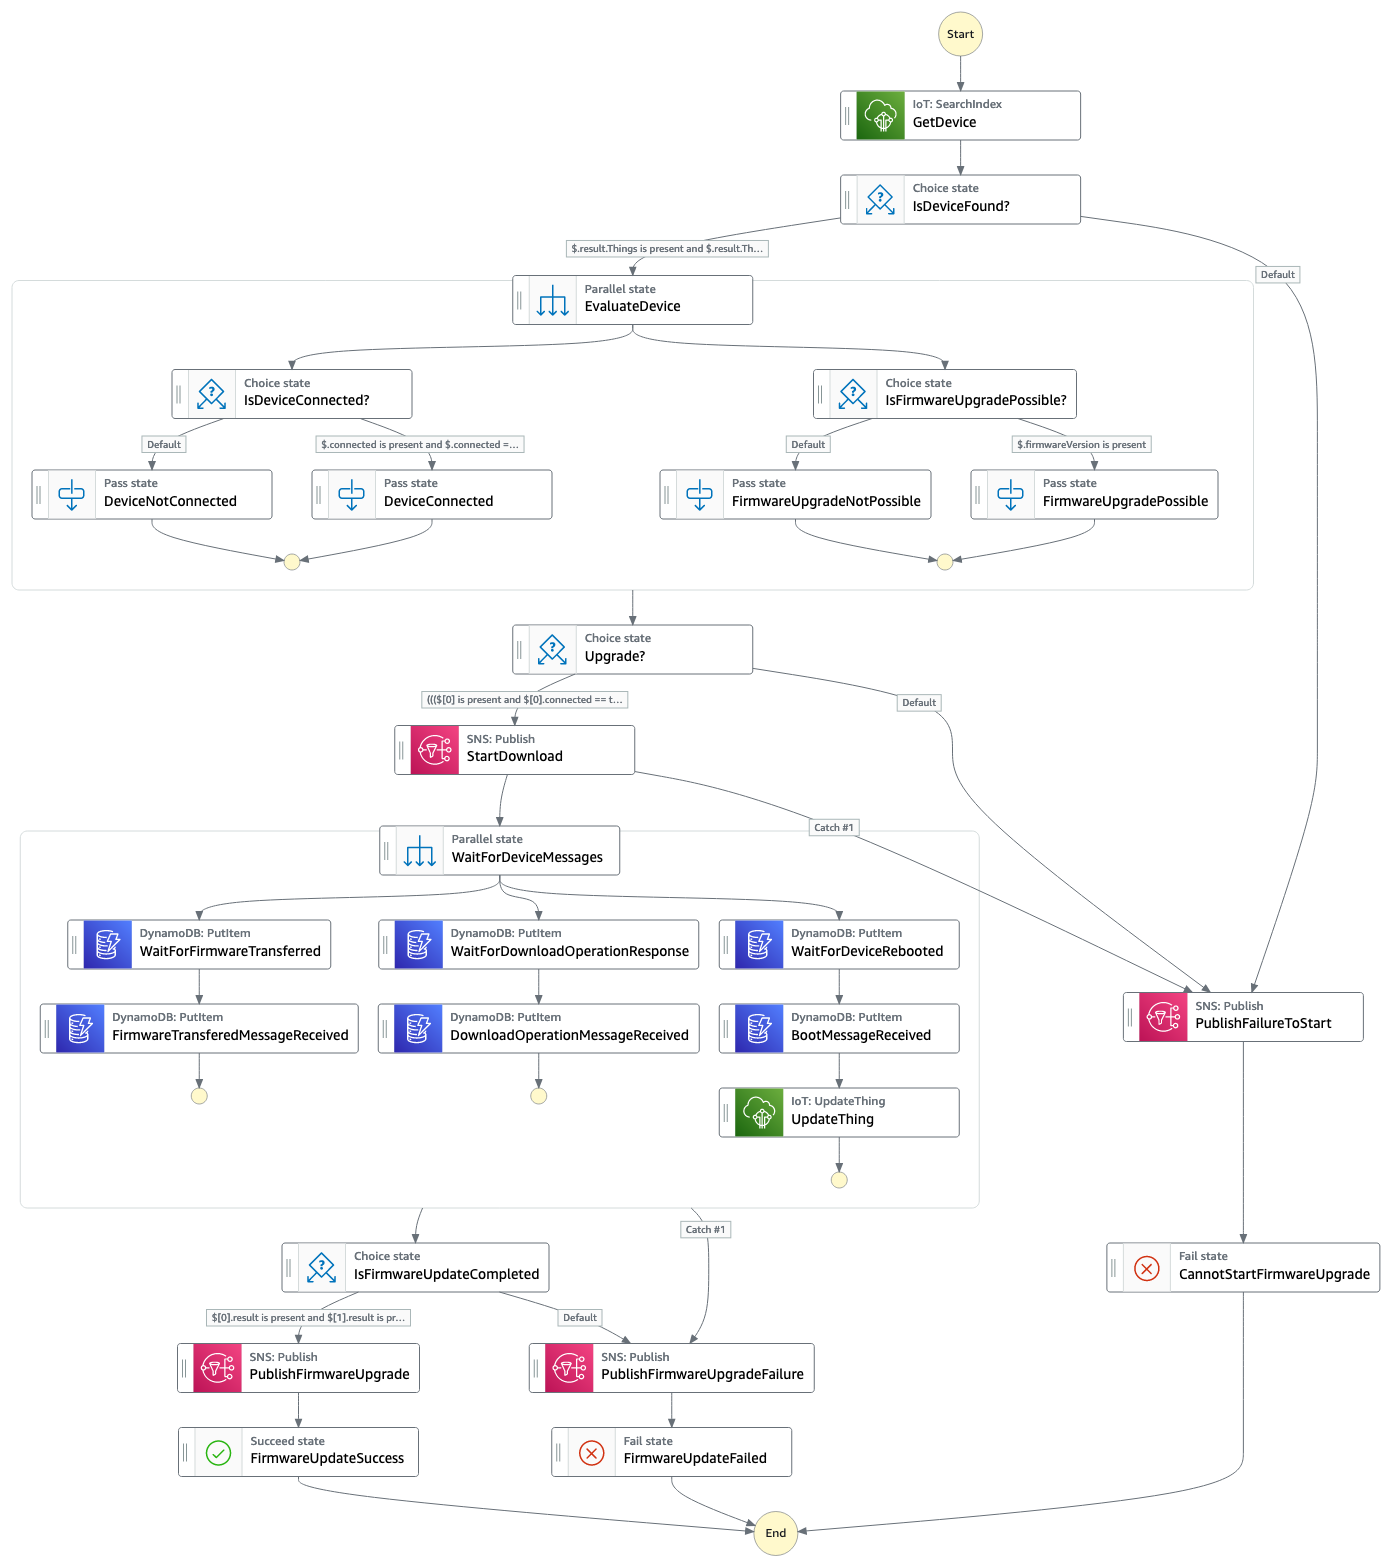
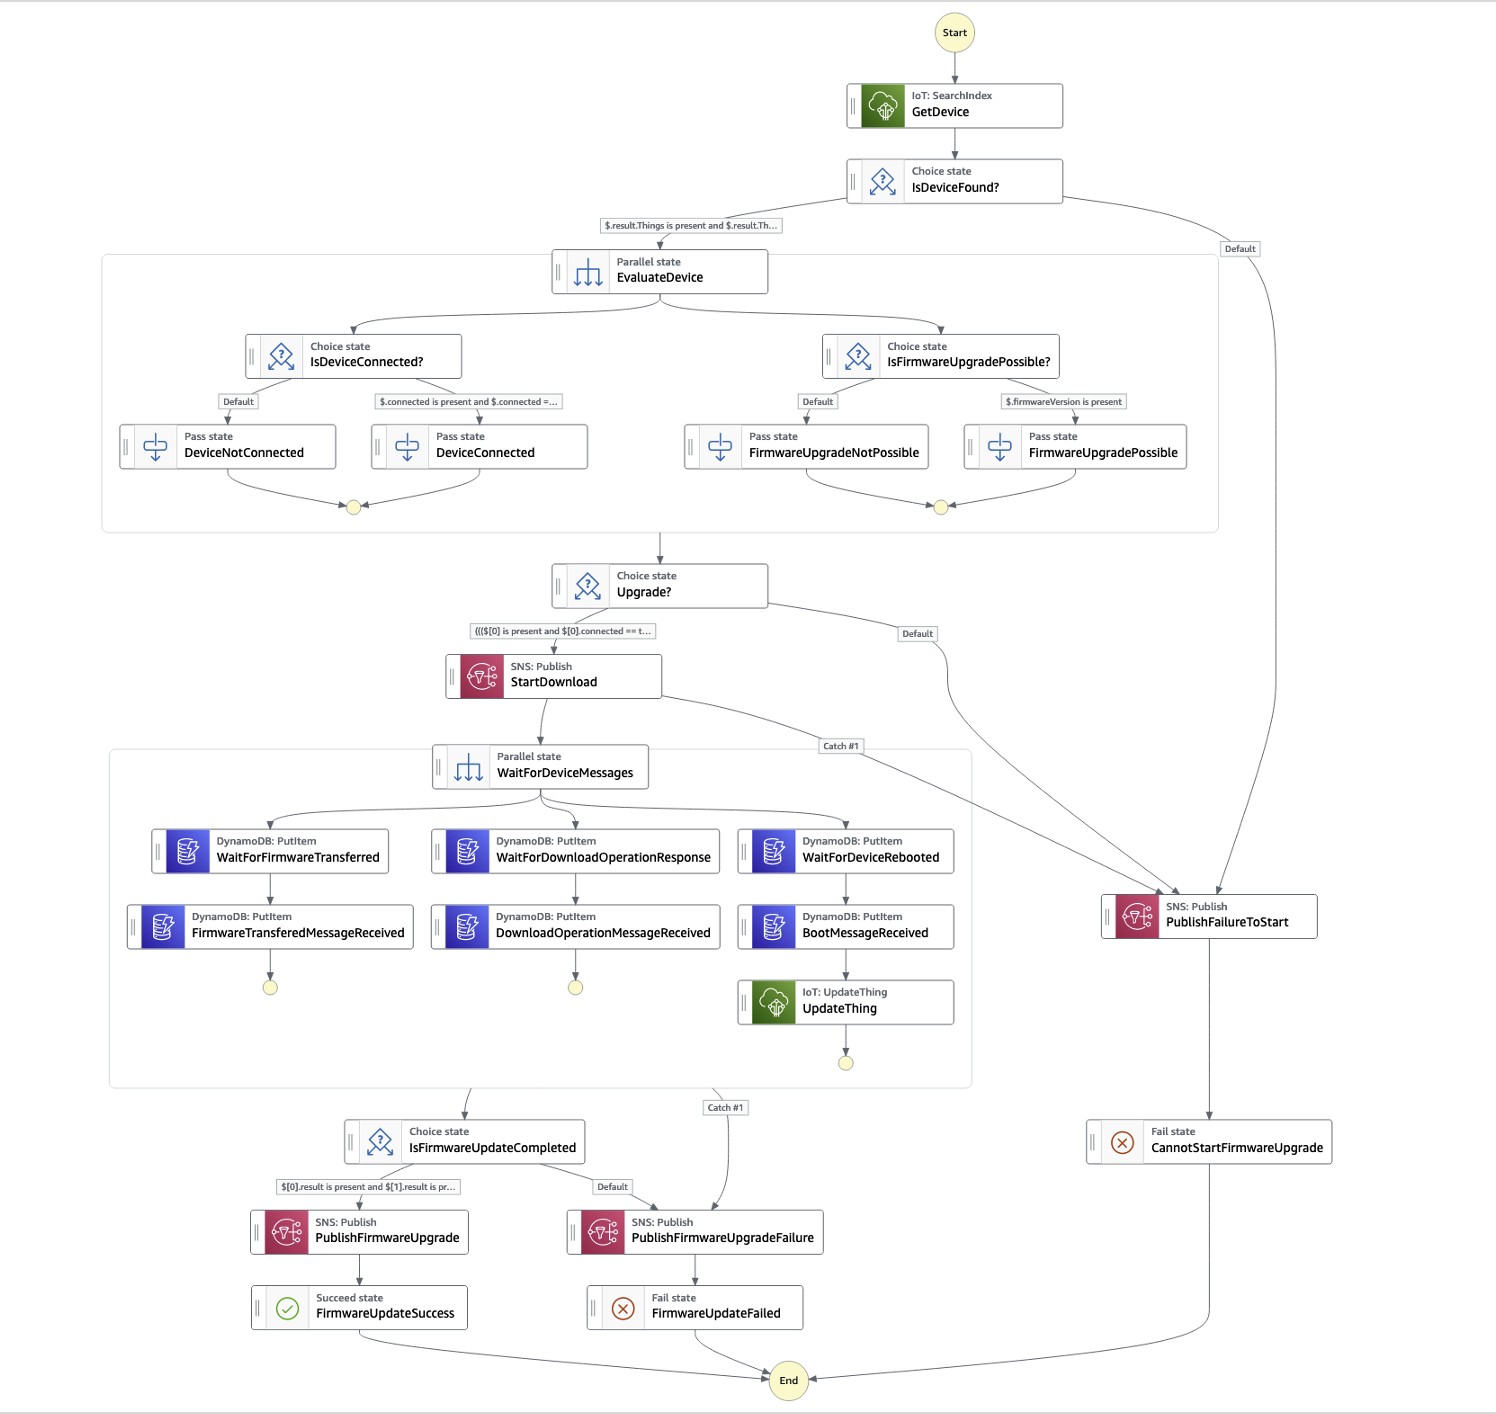
Fix diagrams and README.md

diff --git a/device-agent-simulator/README.md b/device-agent-simulator/README.md
@@ -15,13 +15,14 @@ To run this component in Docker, follow the following steps:
 You can edit the ```env.list``` file  and add your AWS credentials AWS_ACCESS_KEY_ID=<your access key>, AWS_SECRET_ACCESS_KEY=<your secret key>, AWS_REGION=<your region>.
 It is important that the AWS_REGION is also set, because the application will retrieve the IoT Endpoint using the region.
 2. You can either run the ```run.sh``` file and run multiple containers, or build and start one container using Docker commands.  
-a. To start one container, you can run:
+ - To start one container, you can run:
 
 ```
 docker build . -t device-agent-simulator-app
 docker run --restart=unless-stopped -d -m "300M" -e alert=true --memory-swap "1G" -e "NODE_ENV=production" -u "node" --init --env-file ./env.list -it device-agent-simulator-app
 ```
-b. To run more containers, you can use the ```run.sh``` script. It is by default configured to run 10 containers, but you can change based on your needs.
+
+ - To run more containers, you can use the ```run.sh``` script. It is by default configured to run 10 containers, but you can change based on your needs.
 
 ### Clean-Up:
 1. After running the demo, make sure you remove all the created IoT things and certificates. 
